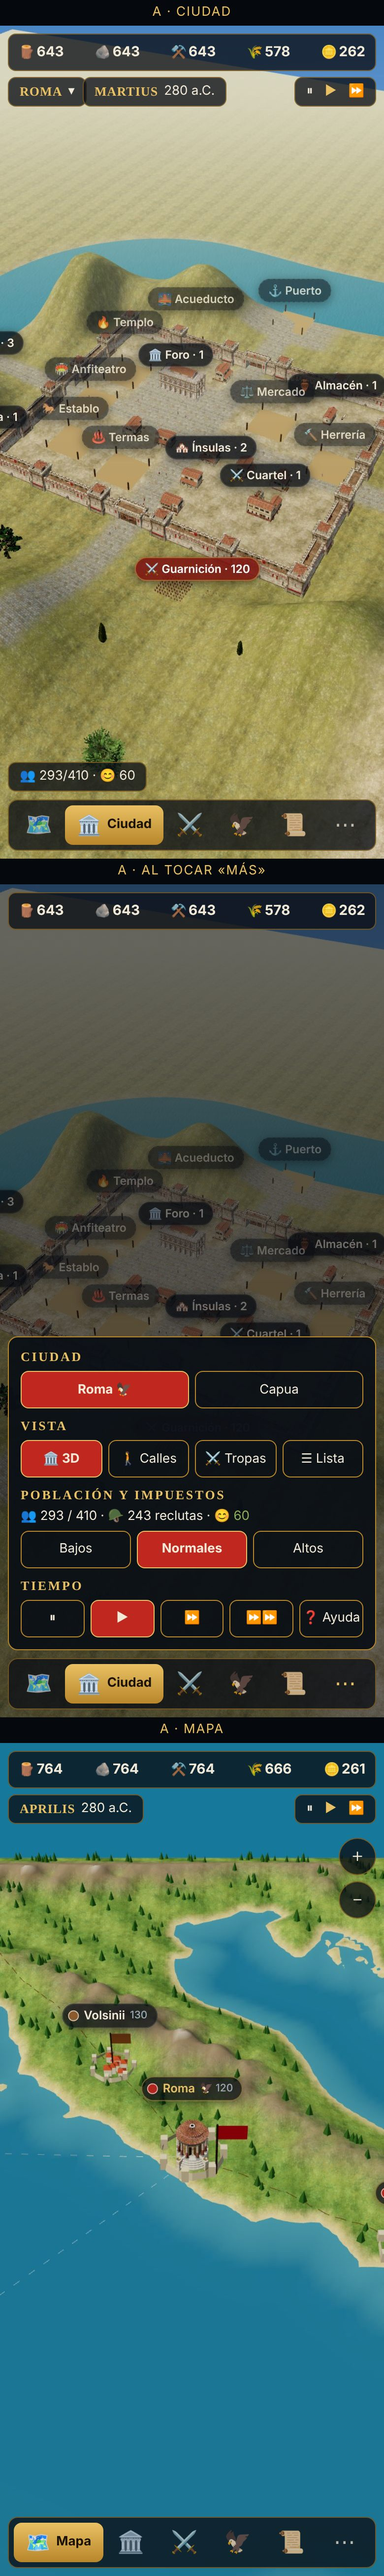
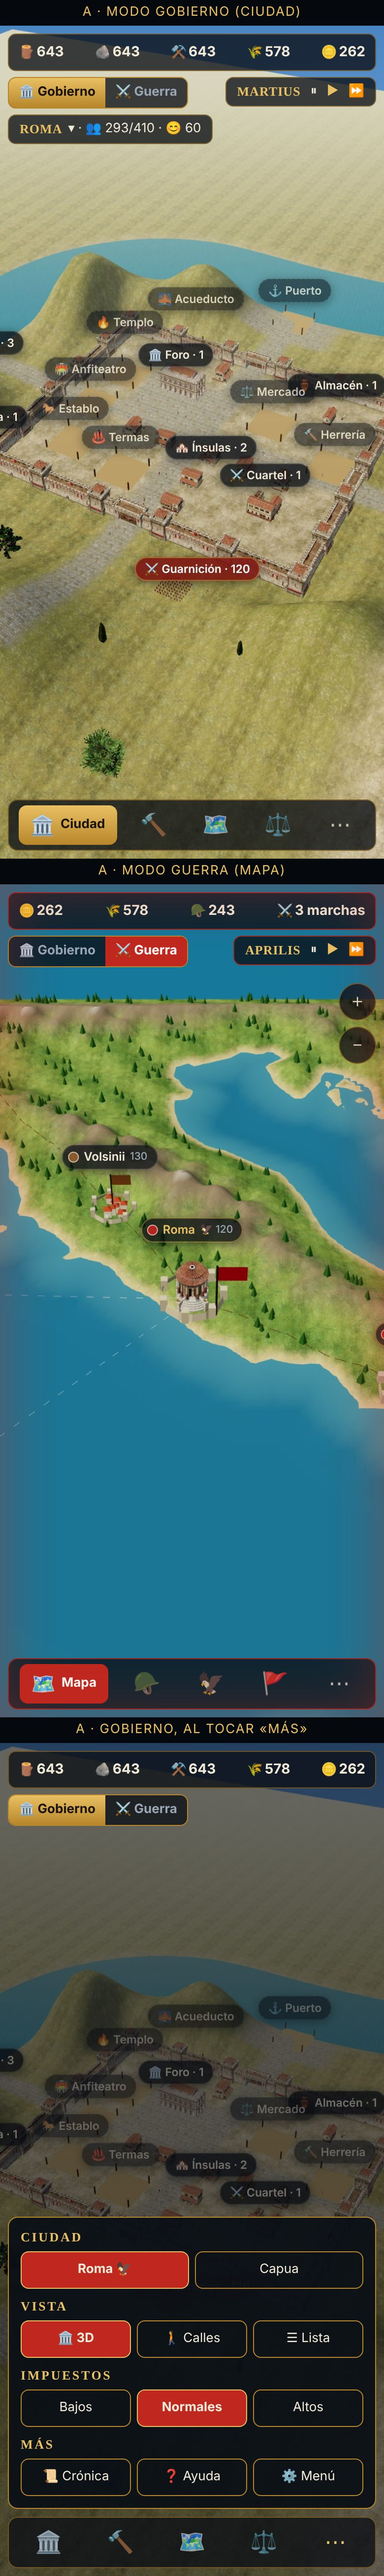
J1a: maquetas con los dos modos, Gobierno y Guerra
Claude-Session: https://claude.ai/code/session_01QiKC37xhRXcJvc7ePGqk8Z

diff --git a/gobierno/maquetas/B.html b/gobierno/maquetas/B.html
@@ -1,41 +1,38 @@
 <!doctype html><html lang="es"><head><meta charset="utf-8"><meta name="viewport" content="width=390"><title>Maqueta B</title><link rel="stylesheet" href="maqueta.css"></head><body>
-<!-- MAQUETA B · «Pantalla despejada»: sin barra de abajo. Arriba solo recursos, ciudad y fecha. Vistas en una tira fina a la derecha y tres botones redondos abajo: Obras, población y menú. -->
-<div class="rot">B · Ciudad</div>
+<!-- MAQUETA B · «Pantalla despejada» con dos modos. Sin barra de abajo. Un botón grande abajo a la derecha cambia de modo (oro = Gobierno, rojo = Guerra); cada modo muestra solo sus botones. -->
+<div class="rot">B · Modo Gobierno (ciudad)</div>
 <div class="p ciudad">
   <div class="res glass"><span><small>🪵</small>643</span><span><small>🪨</small>643</span><span><small>⚒</small>643</span><span><small>🌾</small>578</span><span><small>🪙</small>262</span></div>
   <div class="pill glass" style="left:8px;top:52px"><b>ROMA</b>▾</div>
   <div class="pill glass" style="right:8px;top:52px"><b>MARTIUS</b>280 · <span style="color:var(--oro)">▶</span></div>
   <div class="rd" style="right:8px;top:300px;width:42px;height:42px;font-size:19px;background:linear-gradient(#e9c063,#b8862b)">🏛</div>
   <div class="rd" style="right:8px;top:350px;width:42px;height:42px;font-size:19px">🚶</div>
-  <div class="rd" style="right:8px;top:400px;width:42px;height:42px;font-size:19px">⚔</div>
-  <div class="rd" style="right:8px;top:450px;width:42px;height:42px;font-size:19px">🗺</div>
+  <div class="rd" style="right:8px;top:400px;width:42px;height:42px;font-size:19px">🗺</div>
   <div class="rd oro" style="left:12px;bottom:14px;width:58px;height:58px;font-size:26px">🔨</div>
   <div class="pill glass" style="left:84px;right:84px;bottom:28px;justify-content:center">👥 293/410 · 😊 60</div>
-  <div class="rd rojo" style="right:12px;bottom:14px;width:58px;height:58px;font-size:26px">☰</div>
+  <div class="rd oro" style="right:12px;bottom:14px;width:58px;height:58px;font-size:12px;flex-direction:column;gap:2px"><span style="font-size:22px">🏛</span>Gobierno</div>
 </div>
-<div class="rot">B · Al tocar ☰</div>
-<div class="p ciudad"><div class="vel"></div>
-  <div class="res glass"><span><small>🪵</small>643</span><span><small>🪨</small>643</span><span><small>⚒</small>643</span><span><small>🌾</small>578</span><span><small>🪙</small>262</span></div>
-  <div class="hoja" style="left:auto;width:230px;right:12px;bottom:84px;padding:8px">
-    <div class="fila" style="flex-direction:column;gap:6px">
-      <div style="justify-content:flex-start;padding-left:12px">🗺 Mapa</div><div class="on" style="justify-content:flex-start;padding-left:12px">🏛 Ciudad</div>
-      <div style="justify-content:flex-start;padding-left:12px">⚔ Ejército</div><div style="justify-content:flex-start;padding-left:12px">🦅 General</div>
-      <div style="justify-content:flex-start;padding-left:12px">📜 Crónica</div><div style="justify-content:flex-start;padding-left:12px">💰 Impuestos · Normales</div>
-      <div style="justify-content:flex-start;padding-left:12px">❓ Ayuda · ⏩ Velocidad</div>
-    </div></div>
-  <div class="rd oro" style="left:12px;bottom:14px;width:58px;height:58px;font-size:26px">🔨</div>
-  <div class="rd rojo" style="right:12px;bottom:14px;width:58px;height:58px;font-size:26px">✕</div>
-</div>
-<div class="rot">B · Mapa</div>
-<div class="p mapa">
-  <div class="res glass"><span><small>🪵</small>764</span><span><small>🪨</small>764</span><span><small>⚒</small>764</span><span><small>🌾</small>666</span><span><small>🪙</small>261</span></div>
+<div class="rot">B · Modo Guerra (mapa)</div>
+<div class="p mapa guerra">
+  <div class="res glass"><span><small>🪙</small>262</span><span><small>🌾</small>578</span><span><small>🪖</small>243</span><span><small>⚔</small>3 marchas</span></div>
   <div class="pill glass" style="left:8px;top:52px"><b>ROMA</b>▾</div>
   <div class="pill glass" style="right:8px;top:52px"><b>APRILIS</b>280 · <span style="color:var(--oro)">▶</span></div>
   <div class="rd" style="right:8px;top:300px;width:42px;height:42px;font-size:18px">＋</div>
   <div class="rd" style="right:8px;top:350px;width:42px;height:42px;font-size:18px">－</div>
   <div class="rd" style="right:8px;top:400px;width:42px;height:42px;font-size:19px">🦅</div>
+  <div class="rd rojo" style="left:12px;bottom:14px;width:58px;height:58px;font-size:26px">🪖</div>
+  <div class="pill glass" style="left:84px;right:84px;bottom:28px;justify-content:center">🚩 2 marchas en curso</div>
+  <div class="rd rojo" style="right:12px;bottom:14px;width:58px;height:58px;font-size:12px;flex-direction:column;gap:2px"><span style="font-size:22px">⚔</span>Guerra</div>
+</div>
+<div class="rot">B · Al tocar el botón de modo</div>
+<div class="p ciudad"><div class="vel"></div>
+  <div class="res glass"><span><small>🪵</small>643</span><span><small>🪨</small>643</span><span><small>⚒</small>643</span><span><small>🌾</small>578</span><span><small>🪙</small>262</span></div>
+  <div class="hoja" style="left:auto;width:230px;right:12px;bottom:84px;padding:8px"><div class="fila" style="flex-direction:column;gap:6px">
+    <div class="on" style="justify-content:flex-start;padding-left:12px;background:linear-gradient(#e9c063,#b8862b);color:#1a1205">🏛 Gobierno</div>
+    <div style="justify-content:flex-start;padding-left:12px;border-color:var(--rojo)">⚔ Guerra</div>
+    <div style="justify-content:flex-start;padding-left:12px">📜 Crónica</div>
+    <div style="justify-content:flex-start;padding-left:12px">❓ Ayuda · ⚙ Menú</div></div></div>
   <div class="rd oro" style="left:12px;bottom:14px;width:58px;height:58px;font-size:26px">🔨</div>
-  <div class="pill glass" style="left:84px;right:84px;bottom:28px;justify-content:center">⚔ 2 marchas · 🚩 0</div>
-  <div class="rd rojo" style="right:12px;bottom:14px;width:58px;height:58px;font-size:26px">☰</div>
+  <div class="rd rojo" style="right:12px;bottom:14px;width:58px;height:58px;font-size:26px">✕</div>
 </div>
 </body></html>

diff --git a/gobierno/maquetas/A.html b/gobierno/maquetas/A.html
@@ -1,34 +1,32 @@
 <!doctype html><html lang="es"><head><meta charset="utf-8"><meta name="viewport" content="width=390"><title>Maqueta A</title><link rel="stylesheet" href="maqueta.css"></head><body>
-<!-- MAQUETA A · «Barra fina»: arriba una sola barra de recursos y una línea con ciudad, fecha y velocidad. Abajo la barra de siempre, más baja, con «Más». Todo lo demás se recoge en la hoja «Más». -->
-<div class="rot">A · Ciudad</div>
+<!-- MAQUETA A · «Barra fina» con dos modos. Interruptor Gobierno | Guerra arriba; cada modo tiene su barra de abajo con solo sus botones. -->
+<div class="rot">A · Modo Gobierno (ciudad)</div>
 <div class="p ciudad">
   <div class="res glass"><span><small>🪵</small>643</span><span><small>🪨</small>643</span><span><small>⚒</small>643</span><span><small>🌾</small>578</span><span><small>🪙</small>262</span></div>
-  <div class="pill glass" style="left:8px;top:52px"><b>ROMA</b>▾</div>
-  <div class="pill glass" style="left:84px;top:52px"><b>MARTIUS</b>280 a.C.</div>
-  <div class="pill glass" style="right:8px;top:52px;gap:12px">⏸ <span style="color:var(--oro)">▶</span> ⏩</div>
-  <div class="pill glass" style="left:8px;bottom:68px">👥 293/410 · 😊 60</div>
-  <div class="bar"><i>🗺</i><i class="on">🏛<em>Ciudad</em></i><i>⚔</i><i>🦅</i><i>📜</i><i>⋯</i></div>
+  <div class="modo" style="left:8px;top:52px"><span class="g">🏛 Gobierno</span><span>⚔ Guerra</span></div>
+  <div class="pill glass" style="right:8px;top:52px;gap:10px"><b>MARTIUS</b> ⏸ <span style="color:var(--oro)">▶</span> ⏩</div>
+  <div class="pill glass" style="left:8px;top:90px"><b>ROMA</b>▾ · 👥 293/410 · 😊 60</div>
+  <div class="bar"><i class="on">🏛<em>Ciudad</em></i><i>🔨</i><i>🗺</i><i>⚖</i><i>⋯</i></div>
 </div>
-<div class="rot">A · Al tocar «Más»</div>
+<div class="rot">A · Modo Guerra (mapa)</div>
+<div class="p mapa guerra">
+  <div class="res glass"><span><small>🪙</small>262</span><span><small>🌾</small>578</span><span><small>🪖</small>243</span><span><small>⚔</small>3 marchas</span></div>
+  <div class="modo" style="left:8px;top:52px"><span>🏛 Gobierno</span><span class="w">⚔ Guerra</span></div>
+  <div class="pill glass" style="right:8px;top:52px;gap:10px"><b>APRILIS</b> ⏸ <span style="color:var(--oro)">▶</span> ⏩</div>
+  <div class="rd" style="right:8px;top:100px;width:38px;height:38px;font-size:18px">＋</div>
+  <div class="rd" style="right:8px;top:144px;width:38px;height:38px;font-size:18px">－</div>
+  <div class="bar"><i class="on">🗺<em>Mapa</em></i><i>🪖</i><i>🦅</i><i>🚩</i><i>⋯</i></div>
+</div>
+<div class="rot">A · Gobierno, al tocar «Más»</div>
 <div class="p ciudad"><div class="vel"></div>
   <div class="res glass"><span><small>🪵</small>643</span><span><small>🪨</small>643</span><span><small>⚒</small>643</span><span><small>🌾</small>578</span><span><small>🪙</small>262</span></div>
-  <div class="hoja" style="bottom:68px">
+  <div class="modo" style="left:8px;top:52px"><span class="g">🏛 Gobierno</span><span>⚔ Guerra</span></div>
+  <div class="hoja">
     <h3>Ciudad</h3><div class="fila"><div class="on">Roma 🦅</div><div>Capua</div></div>
-    <h3>Vista</h3><div class="fila"><div class="on">🏛 3D</div><div>🚶 Calles</div><div>⚔ Tropas</div><div>☰ Lista</div></div>
-    <h3>Población y impuestos</h3>
-    <p style="font-size:13px;margin-bottom:6px">👥 293 / 410 · 🪖 243 reclutas · <span style="color:var(--oliva)">😊 60</span></p>
-    <div class="fila"><div>Bajos</div><div class="on">Normales</div><div>Altos</div></div>
-    <h3>Tiempo</h3><div class="fila"><div>⏸</div><div class="on">▶</div><div>⏩</div><div>⏩⏩</div><div>❓ Ayuda</div></div>
+    <h3>Vista</h3><div class="fila"><div class="on">🏛 3D</div><div>🚶 Calles</div><div>☰ Lista</div></div>
+    <h3>Impuestos</h3><div class="fila"><div>Bajos</div><div class="on">Normales</div><div>Altos</div></div>
+    <h3>Más</h3><div class="fila"><div>📜 Crónica</div><div>❓ Ayuda</div><div>⚙ Menú</div></div>
   </div>
-  <div class="bar"><i>🗺</i><i class="on">🏛<em>Ciudad</em></i><i>⚔</i><i>🦅</i><i>📜</i><i style="color:var(--oro);opacity:1">⋯</i></div>
-</div>
-<div class="rot">A · Mapa</div>
-<div class="p mapa">
-  <div class="res glass"><span><small>🪵</small>764</span><span><small>🪨</small>764</span><span><small>⚒</small>764</span><span><small>🌾</small>666</span><span><small>🪙</small>261</span></div>
-  <div class="pill glass" style="left:8px;top:52px"><b>APRILIS</b>280 a.C.</div>
-  <div class="pill glass" style="right:8px;top:52px;gap:12px">⏸ <span style="color:var(--oro)">▶</span> ⏩</div>
-  <div class="rd" style="right:8px;top:96px;width:38px;height:38px;font-size:18px">＋</div>
-  <div class="rd" style="right:8px;top:140px;width:38px;height:38px;font-size:18px">－</div>
-  <div class="bar"><i class="on">🗺<em>Mapa</em></i><i>🏛</i><i>⚔</i><i>🦅</i><i>📜</i><i>⋯</i></div>
+  <div class="bar"><i>🏛</i><i>🔨</i><i>🗺</i><i>⚖</i><i style="color:var(--oro);opacity:1">⋯</i></div>
 </div>
 </body></html>

diff --git a/gobierno/maquetas/maqueta.css b/gobierno/maquetas/maqueta.css
@@ -24,3 +24,10 @@ body{width:390px;background:#05080c;font:14px/1.2 system-ui,-apple-system,"Segoe
 .fila{display:flex;gap:6px}.fila>*{flex:1;height:38px;display:flex;align-items:center;justify-content:center;gap:5px;border:1px solid var(--bronce);border-radius:8px;font-size:13px;white-space:nowrap}
 .fila .on{background:var(--rojo);border-color:var(--oro);font-weight:700}
 .nota{position:absolute;left:8px;right:8px;top:54px;font-size:13px;text-align:center;color:var(--piedra)}
+/* Dos modos: Gobierno (oro) y Guerra (rojo) */
+.modo{position:absolute;display:flex;height:32px;border:1px solid var(--bronce);border-radius:8px;overflow:hidden;background:var(--glass);font-size:13px;font-weight:700}
+.modo span{display:flex;align-items:center;padding:0 10px;gap:5px;color:var(--piedra)}
+.modo .g{background:linear-gradient(#e9c063,#b8862b);color:#1a1205}.modo .w{background:var(--rojo);color:#fff}
+.guerra .res,.guerra .bar,.guerra .pill{border-color:rgba(192,40,31,.8)}
+.guerra .bar i.on{background:var(--rojo);color:#fff}
+.guerra::after{content:"";position:absolute;inset:0;box-shadow:inset 0 0 60px rgba(192,40,31,.45);pointer-events:none}

diff --git a/gobierno/BITACORA.md b/gobierno/BITACORA.md
@@ -67,7 +67,7 @@ Regla: lo nuevo se apunta aquí; cuando el usuario lo aprueba, pasa al tablero. 
   - **Duración a elegir**: partida corta de unas horas, o larga de semanas o meses, siempre **con un final**.
 
 ## Esperando algo del usuario
-1. **Pantalla limpia (J1)**: ¿maqueta A o B? A = barra fina de recursos arriba, la barra de abajo más baja y todo lo demás (ciudad, vistas, impuestos, velocidad) recogido en un botón «Más»; B = sin barra de abajo: recursos arriba, tira de vistas a la derecha y tres botones redondos (Obras, población, menú). Capturas en el cuadro.
+1. **Pantalla limpia (J1)**: ¿maqueta A o B? Las dos separan «Gobierno» (ciudades, economía) y «Guerra» (ejércitos, marchas, batallas), cada modo solo con sus botones. A = interruptor Gobierno|Guerra arriba, barra de abajo fina que cambia con el modo y «Más»; B = sin barra de abajo, recursos arriba y un botón redondo abajo a la derecha que cambia de modo (oro/rojo).
 
 ## Propuestas por aprobar
 Ninguna.

diff --git a/gobierno/partes/2026-11-11-J1a.md b/gobierno/partes/2026-11-11-J1a.md
@@ -1,5 +1,6 @@
 # Parte · J1a Pantalla limpia, maquetas · 11/11/2026
 **Resultado**: a medias a propósito. Hechas las dos maquetas; el juego no se ha tocado. J1 se construye cuando el usuario elija.
+**Actualizado tras la decisión «Dos modos»** (mensaje de la sesión madre, comprobado en la bitácora): las dos maquetas enseñan Gobierno y Guerra.
 **Qué cambia para el jugador**: nada todavía. Puede ver dos propuestas (ciudad, menú abierto y mapa) a 390 px en el cuadro.
 - **A «Barra fina»**: arriba una barra de recursos y una línea con ciudad, fecha y velocidad (de ~230 px a ~80). Abajo la barra de siempre, más baja, con «Más». Ciudad, vistas, impuestos y ayuda van dentro de «Más».
 - **B «Pantalla despejada»**: sin barra de abajo. Recursos arriba; vistas en una tira a la derecha; abajo tres botones redondos (🔨 Obras, población, ☰ menú). Prepara J2.
